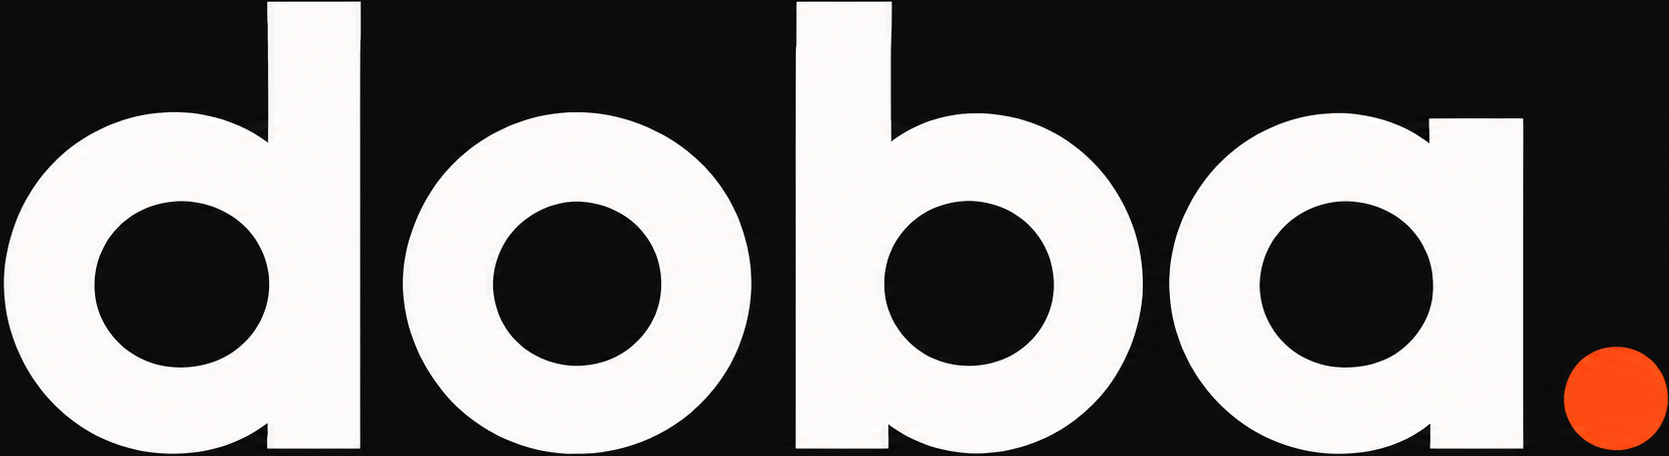
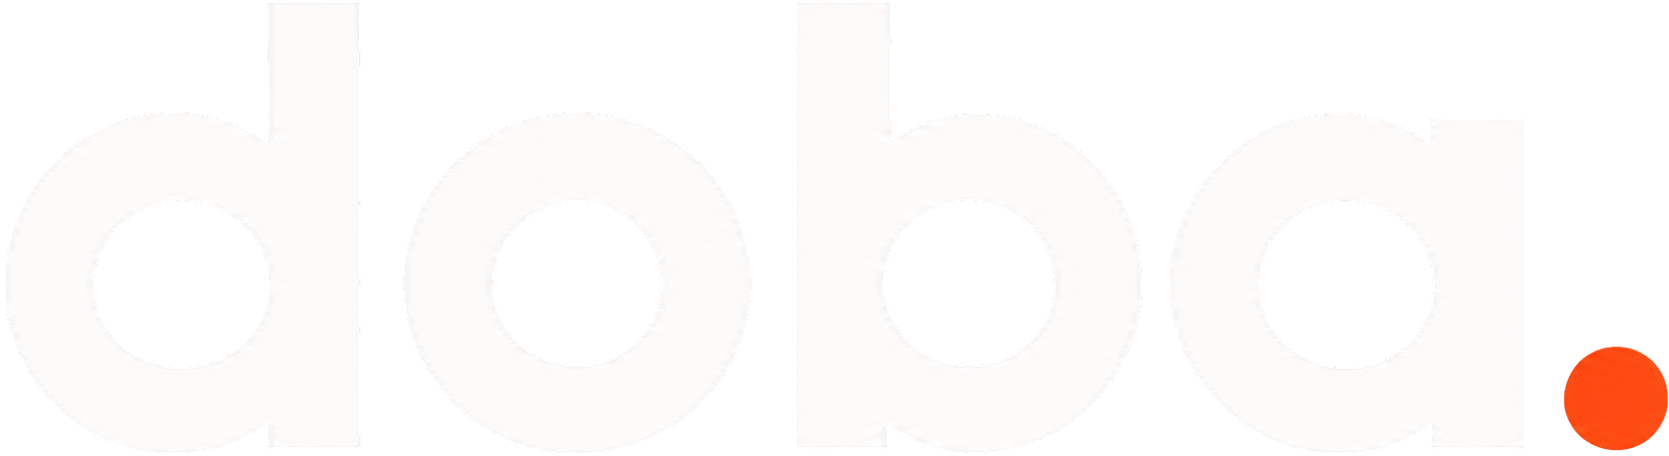
improved README.md file..

diff --git a/README.md b/README.md
@@ -6,7 +6,10 @@
 
 [![Build & Test](https://github.com/martianlabs/doba/actions/workflows/ci.yml/badge.svg?branch=main&event=push)](https://github.com/martianlabs/doba/actions/workflows/ci.yml?query=branch%3Amain)
 
-<img src="resources/readme-hero.svg" alt="You write the handler. doba moves the bytes." width="672">
+<picture>
+  <source media="(prefers-color-scheme: dark)" srcset="resources/readme-hero-dark.svg">
+  <img src="resources/readme-hero.svg" alt="You write the handler. doba moves the bytes." width="672">
+</picture>
 
 Meet doba: a header-only C++20 server framework. Protocols and transports
 mind their own business. HTTP/1.1 comes first; the architecture leaves room
